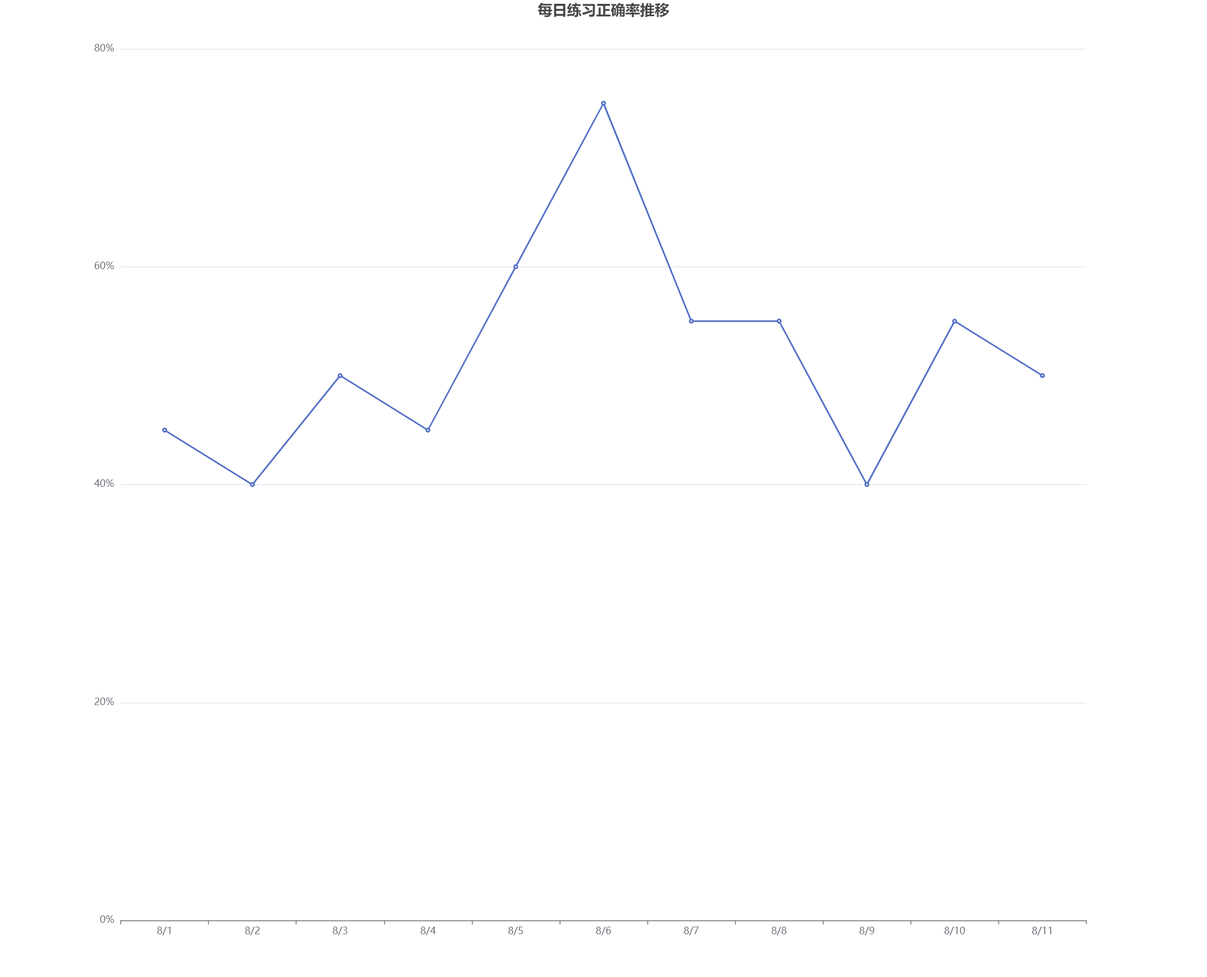
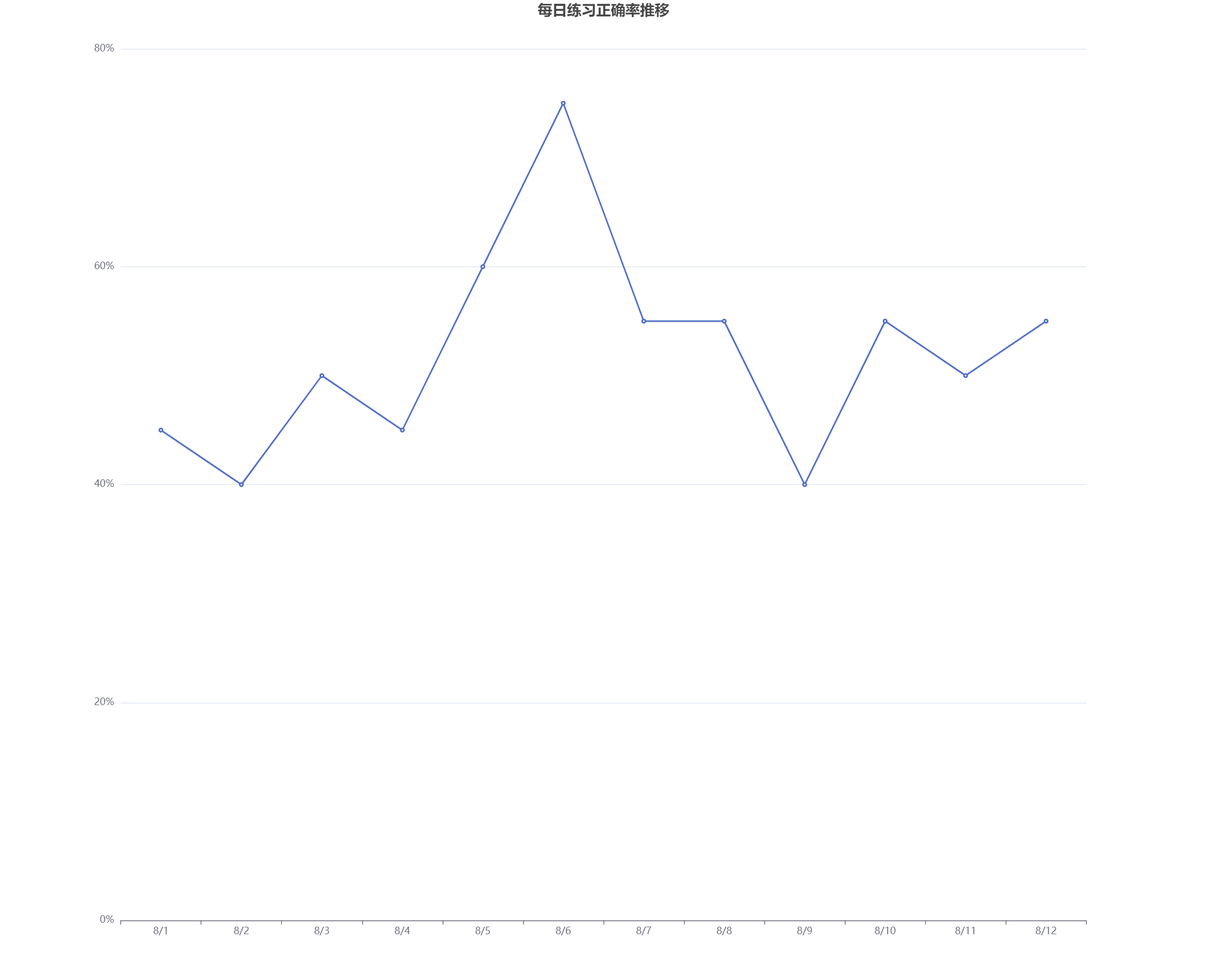
[update] answer question 301-320

diff --git a/src/dailyPractice.js b/src/dailyPractice.js
@@ -5,7 +5,7 @@ option = {
   },
   xAxis: {
     type: "category",
-    data: ["8/1", "8/2", "8/3", "8/4", "8/5", "8/6", "8/7", "8/8", "8/9", "8/10", "8/11"],
+    data: ["8/1", "8/2", "8/3", "8/4", "8/5", "8/6", "8/7", "8/8", "8/9", "8/10", "8/11", "8/12"],
   },
   yAxis: {
     type: "value",
@@ -15,7 +15,7 @@ option = {
   },
   series: [
     {
-      data: [45, 40, 50, 45, 60, 75, 55, 55, 40, 55, 50],
+      data: [45, 40, 50, 45, 60, 75, 55, 55, 40, 55, 50, 55],
       type: "line",
     },
   ],

diff --git a/第四章/README.md b/第四章/README.md
@@ -1,1 +1,275 @@
 # AWS SAP 301-400
+
+1. A company built an ecommerce website on AWS using a three-tier web architecture. The application is Java-based and composed of an Amazon CloudFront distribution, an Apache web server layer of Amazon EC2 instances in an Auto Scaling group, and a backend Amazon Aurora MySQL database. Last month, during a promotional sales event, users reported errors and timeouts while adding items to their shopping carts. The operations team recovered the logs created by the web servers and reviewed Aurora DB cluster performance metrics. Some of the web servers were terminated before logs could be collected and the Aurora metrics were not sufficient for query performance analysis. Which combination of steps must the solutions architect take to improve application performance visibility during peak traffic events? (Choose three.)
+   - [ ] A. Configure the Aurora MySQL DB cluster to publish slow query and error logs to Amazon CloudWatch Logs.
+   - [ ] B. Implement the AWS X-Ray SDK to trace incoming HTTP requests on the EC2 instances and implement tracing of SQL queries with the X-Ray SDK for Java.
+   - [ ] C. Configure the Aurora MySQL DB cluster to stream slow query and error logs to Amazon Kinesis
+   - [ ] D. Install and configure an Amazon CloudWatch Logs agent on the EC2 instances to send the Apache logs to CloudWatch Logs.
+   - [ ] E. Enable and configure AWS CloudTrail to collect and analyze application activity from Amazon EC2 and Aurora.
+   - [ ] F. Enable Aurora MySQL DB cluster performance benchmarking and publish the stream to AWS X-Ray.
+
+   <details>
+      <summary>Answer</summary>
+
+      答案ABD -> [ref](https://docs.aws.amazon.com/zh_cn/xray/latest/devguide/xray-sdk-java-sqlclients.html)
+
+   </details>
+
+2. A North American company with headquarters on the East Coast is deploying a new web application running on Amazon EC2 in the us-east-1 Region. The application should dynamically scale to meet user demand and maintain resiliency. Additionally, the application must have disaster recover capabilities in an active-passive configuration with the us-west-1 Region. Which steps should a solutions architect take after creating a VPC in the us-east-1 Region?
+   - [ ] A. Create a VPC in the us-west-1 Region. Use inter-Region VPC peering to connect both VPCs. Deploy an Application Load Balancer (ALB) spanning multiple Availability Zones (AZs) to the VPC in the us-east-1 Region. Deploy EC2 instances across multiple AZs in each Region as part of an Auto Scaling group spanning both VPCs and served by the ALB.
+   - [ ] B. Deploy an Application Load Balancer (ALB) spanning multiple Availability Zones (AZs) to the VPC in the us-east-1 Region. Deploy EC2 instances across multiple AZs as part of an Auto Scaling group served by the ALB. Deploy the same solution to the us-west-1 Region. Create an Amazon Route 53 record set with a failover routing policy and health checks enabled to provide high availability across both Regions.
+   - [ ] C. Create a VPC in the us-west-1 Region. Use inter-Region VPC peering to connect both VPCs. Deploy an Application Load Balancer (ALB) that spans both VPCs. Deploy EC2 instances across multiple Availability Zones as part of an Auto Scaling group in each VPC served by the ALB. Create an Amazon Route 53 record that points to the ALB.
+   - [ ] D. Deploy an Application Load Balancer (ALB) spanning multiple Availability Zones (AZs) to the VPC in the us-east-1 Region. Deploy EC2 instances across multiple AZs as part of an Auto Scaling group served by the ALB. Deploy the same solution to the us-west-1 Region. Create separate Amazon Route 53 records in each Region that point to the ALB in the Region. Use Route 53 health checks to provide high availability across both Regions.
+
+   <details>
+      <summary>Answer</summary>
+
+      D没有提到要在Amazon Route 53上使用的路由策略。问题要求第二个区域作为被动备份，这意味着只有主区域接收所有流量，所以你需要在Amazon Route 53中特别使用故障转移路由策略。所以根据要求，B是正确的
+
+   </details>
+
+3. A company has a web application that uses Amazon API Gateway, AWS Lambda, and Amazon DynamoDB. A recent marketing campaign has increased demand. Monitoring software reports that many requests have significantly longer response times than before the marketing campaign. A solutions architect enabled Amazon CloudWatch Logs for API Gateway and noticed that errors are occurring on 20% of the requests. In CloudWatch, the Lambda function Throttles metric represents 1% of the requests and the Errors metric represents 10% of the requests. Application logs indicate that, when errors occur, there is a call to DynamoDB. What change should the solutions architect make to improve the current response times as the web application becomes more popular?
+   - [ ] A. Increase the concurrency limit of the Lambda function.
+   - [ ] B. Implement DynamoDB auto scaling on the table.
+   - [ ] C. Increase the API Gateway throttle limit.
+   - [ ] D. Re-create the DynamoDB table with a better-partitioned primary index.
+
+   <details>
+      <summary>Answer</summary>
+
+      这里DynamoDB发生了错误，答案B
+
+   </details>
+
+4. A European online newspaper service hosts its public-facing WordPress site in a collocated data center in London. The current WordPress infrastructure consists of a load balancer, two web servers, and one MySQL database server. A solutions architect is tasked with designing a solution with the following requirements: -Improve the website's performance. -Make the web tier scalable and stateless. -Improve the database server performance for read-heavy loads. -Reduce latency for users across Europe and the US. -Design the new architecture with a goal of 99.9% availability. Which solution meets these requirements while optimizing operational efficiency?
+   - [ ] A. Use an Application Load Balancer (ALB) in front of an Auto Scaling group of WordPress Amazon EC2 instances in one AWS Region and three Availability Zones. Configure an Amazon ElastiCache cluster in front of a Multi-AZ Amazon Aurora MySQL DB cluster. Move the WordPress shared files to Amazon EFS. Configure Amazon CloudFront with the ALB as the origin, and select a price class that includes the US and Europe.
+   - [ ] B. Use an Application Load Balancer (ALB) in front of an Auto Scaling group of WordPress Amazon EC2 instances in two AWS Regions and two Availability Zones in each Region. Configure an Amazon ElastiCache cluster in front of a global Amazon Aurora MySQL database. Move the WordPress shared files to Amazon EFS. Configure Amazon CloudFront with the ALB as the origin, and select a price class that includes the US and Europe. Configure EFS cross- Region replication.
+   - [ ] C. Use an Application Load Balancer (ALB) in front of an Auto Scaling group of WordPress Amazon EC2 instances in one AWS Region and three Availability Zones. Configure an Amazon DocumentDB table in front of a Multi-AZ Amazon Aurora MySQL DB cluster. Move the WordPress shared files to Amazon EFS. Configure Amazon CloudFront with the ALB as the origin, and select a price class that includes all global locations.
+   - [ ] D. Use an Application Load Balancer (ALB) in front of an Auto Scaling group of WordPress Amazon EC2 instances in two AWS Regions and three Availability Zones in each Region. Configure an Amazon ElastiCache cluster in front of a global Amazon Aurora MySQL database. Move the WordPress shared files to Amazon FSx with cross-Region synchronization. Configure Amazon CloudFront with the ALB as the origin and a price class that includes the US and Europe.
+
+   <details>
+      <summary>Answer</summary>
+
+      简单题，答案A
+
+   </details>
+
+5. A solutions architect has implemented a SAML 2.0 federated identity solution with their companyג€™s on-premises identity provider (IdP) to authenticate usersג€™ access to the AWS environment. When the solutions architect tests authentication through the federated identity web portal, access to the AWS environment is granted. However, when test users attempt to authenticate through the federated identity web portal, they are not able to access the AWS environment. Which items should the solutions architect check to ensure identity federation is properly configured? (Choose three).
+   - [ ] A. The IAM user's permissions policy has allowed the use of SAML federation for that user.
+   - [ ] B. The IAM roles created for the federated users' or federated groups' trust policy have set the SAML provider as the principal.
+   - [ ] C. Test users are not in the AWSFederatedUsers group in the company's IdR.
+   - [ ] D. The web portal calls the AWS STS AssumeRoleWithSAML API with the ARN of the SAML provider, the ARN of the IAM role, and the SAML assertion from IdR.
+   - [ ] E. The on-premises IdP's DNS hostname is reachable from the AWS environment VPCs.
+   - [ ] F. The company's IdP defines SAML assertions that properly map users or groups in the company to IAM roles with appropriate permissions.
+
+   <details>
+      <summary>Answer</summary>
+
+      答案BDF
+
+   </details>
+
+6. A company wants to improve cost awareness for its Amazon EMR platform. The company has allocated budgets for each team's Amazon EMR usage. When a budgetary threshold is reached, a notification should be sent by email to the budget office's distribution list. Teams should be able to view their EMR cluster expenses to date. A solutions architect needs to create a solution that ensures the policy is proactively and centrally enforced in a multi-account environment. Which combination of steps should the solutions architect take to meet these requirements? (Choose two)
+   - [ ] A. Update the AWS CloudFormation template to include the AWS::Budgets::Budget::resource with the NotificationsWithSubscribers property.
+   - [ ] B. Implement Amazon CloudWatch dashboards for Amazon EMR usage.
+   - [ ] C. Create an EMR bootstrap action that runs at startup that calls the Cost Explorer API to set the budget on the cluster with the GetCostForecast and NotificationsWithSubscribers actions.
+   - [ ] D. Create an AWS Service Catalog portfolio for each team. Add each team's Amazon EMR cluster as an AWS CloudFormation template to their Service Catalog portfolio as a Product.
+   - [ ] E. Create an Amazon CloudWatch metric for billing. Create a custom alert when costs exceed the budgetary threshold.
+
+   <details>
+      <summary>Answer</summary>
+
+      答案AD -> [ref](https://docs.aws.amazon.com/zh_cn/AWSCloudFormation/latest/UserGuide/aws-resource-budgets-budget.html)
+
+   </details>
+
+7. A company is developing a gene reporting device that will collect genomic information to assist researchers will collecting large samples of data from a diverse population. The device will push 8 KB of genomic data every second to a data platform that will need to process and analyze the data and provide information back to researchers. The data platform must meet the following requirements: -Provide near-real-time analytics of the inbound genomic data. -Ensure the data is flexible, parallel, and durable. -Deliver results of processing to a data warehouse. Which strategy should a solutions architect use to meet these requirements?
+   - [ ] A. Use Amazon Kinesis Data Firehouse to collect the inbound sensor data, analyze the data with Kinesis clients, and save the results to an Amazon RDS instance.
+   - [ ] B. Use Amazon Kinesis Data Streams to collect the inbound sensor data, analyze the data with Kinesis clients, and save the results to an Amazon Redshift cluster using Amazon EMR.
+   - [ ] C. Use Amazon S3 to collect the inbound device data, analyze the data from Amazon SQS with Kinesis, and save the results to an Amazon Redshift cluster.
+   - [ ] D. Use an Amazon API Gateway to put requests into an Amazon SQS queue, analyze the data with an AWS Lambda function, and save the results to an Amazon Redshift cluster using Amazon EMR.
+
+   <details>
+      <summary>Answer</summary>
+
+      简单题，答案B
+
+   </details>
+
+8. A company is using AWS CodePipeline for the CI/CD of an application to an Amazon EC2 Auto Scaling group. All AWS resources are defined in AWS CloudFormation templates. The application artifacts are stored in an Amazon S3 bucket and deployed to the Auto Scaling group using instance user data scripts. As the application has become more complex, recent resource changes in the CloudFormation templates have caused unplanned downtime. How should a solutions architect improve the CI/CD pipeline to reduce the likelihood that changes in the templates will cause downtime?
+   - [ ] A. Adapt the deployment scripts to detect and report CloudFormation error conditions when performing deployments. Write test plans for a testing team to execute in a non-production environment before approving the change for production.
+   - [ ] B. Implement automated testing using AWS CodeBuild in a test environment. Use CloudFormation change sets to evaluate changes before deployment. Use AWS CodeDeploy to leverage blue/green deployment patterns to allow evaluations and the ability to revert changes, if needed.
+   - [ ] C. Use plugins for the integrated development environment (IDE) to check the templates for errors, and use the AWS CLI to validate that the templates are correct. Adapt the deployment code to check for error conditions and generate notifications on errors. Deploy to a test environment and execute a manual test plan before approving the change for production.
+   - [ ] D. Use AWS CodeDeploy and a blue/green deployment pattern with CloudFormation to replace the user data deployment scripts. Have the operators log in to running instances and go through a manual test plan to verify the application is running as expected.
+
+   <details>
+      <summary>Answer</summary>
+
+      简单题，答案B
+
+   </details>
+
+9. A web application is hosted in a dedicated VPC that is connected to a companyג€™s on-premises data center over a Site-to-Site VPN connection. The application is accessible from the company network only. This is a temporary non-production application that is used during business hours. The workload is generally low with occasional surges. The application has an Amazon Aurora MySQL provisioned database cluster on the backend. The VPC has an internet gateway and a NAT gateways attached. The web servers are in private subnets in an Auto Scaling group behind an Elastic Load Balancer. The web servers also upload data to an Amazon S3 bucket through the internet. A solutions architect needs to reduce operational costs and simplify the architecture. Which strategy should the solutions architect use?
+   - [ ] A. Review the Auto Scaling group settings and ensure the scheduled actions are specified to operate the Amazon EC2 instances during business hours only. Use 3-year scheduled Reserved Instances for the web server EC2 instances. Detach the internet gateway and remove the NAT gateways from the VPC. Use an Aurora Serverless database and set up a VPC endpoint for the S3 bucket.
+   - [ ] B. Review the Auto Scaling group settings and ensure the scheduled actions are specified to operate the Amazon EC2 instances during business hours only. Detach the internet gateway and remove the NAT gateways from the VPC. Use an Aurora Serverless database and set up a VPC endpoint for the S3 bucket, then update the network routing and security rules and policies related to the changes.
+   - [ ] C. Review the Auto Scaling group settings and ensure the scheduled actions are specified to operate the Amazon EC2 instances during business hours only. Detach the internet gateway from the VPC, and use an Aurora Serverless database. Set up a VPC endpoint for the S3 bucket, then update the network routing and security rules and policies related to the changes.
+   - [ ] D. Use 3-year scheduled Reserved Instances for the web server Amazon EC2 instances. Remove the NAT gateways from the VPC, and set up a VPC endpoint for the S3 bucket. Use Amazon CloudWatch and AWS Lambda to stop and start the Aurora DB cluster so it operates during business hours only. Update the network routing and security rules and policies related to the changes.
+
+   <details>
+      <summary>Answer</summary>
+
+      简单题，答案B
+
+   </details>
+
+10. A company has built a high performance computing (HPC) cluster in AWS for a tightly coupled workload that generates a large number of shared files stored in Amazon EFS. The cluster was performing well when the number of Amazon EC2 instances in the cluster was 100. However, when the company increased the cluster size to 1,000 EC2 instances, overall performance was well below expectations. Which collection of design choices should a solutions architect make to achieve the maximum performance from the HPC cluster? (Choose three.)
+    - [ ] A. Ensure the HPC cluster is launched within a single Availability Zone.
+    - [ ] B. Launch the EC2 instances and attach elastic network interfaces in multiples of four.
+    - [ ] C. Select EC2 instance types with an Elastic Fabric Adapter (EFA) enabled.
+    - [ ] D. Ensure the clusters is launched across multiple Availability Zones
+    - [ ] E. Replace Amazon EFS win multiple Amazon EBS volumes in a RAID array.
+    - [ ] F. Replace Amazon EFS with Amazon FSx for Lustre.
+
+    <details>
+       <summary>Answer</summary>
+
+       - [x] A. 高性能计算（HPC）工作负载集群应该在一个AZ中。
+       - [x] C. 弹性结构适配器（EFA）是一个网络设备，你可以附加到你的亚马逊EC2实例，以加速高性能计算（HPC）。
+       - [x] F. Amazon FSx for Lustre - 将其用于速度重要的工作负载，如机器学习、高性能计算（HPC）、视频处理和金融建模。
+
+    </details>
+
+11. A company built an application based on AWS Lambda deployed in an AWS CloudFormation stack. The last production release of the web application introduced an issue that resulted in an outage lasting several minutes. A solutions architect must adjust the deployment process to support a canary release. Which solution will meet these requirements?
+    - [ ] A. Create an alias for every new deployed version of the Lambda function. Use the AWS CLI update-alias command with the routing-config parameter to distribute the load.
+    - [ ] B. Deploy the application into a new CloudFormation stack. Use an Amazon Route 53 weighted routing policy to distribute the load.
+    - [ ] C. Create a version for every new deployed Lambda function. Use the AWS CLI update-function-configuration command with the routing-config parameter to distribute the load.
+    - [ ] D. Configure AWS CodeDeploy and use CodeDeployDefault.OneAtATime in the Deployment configuration to distribute the load.
+
+    <details>
+       <summary>Answer</summary>
+
+       答案A -> [ref](https://aws.amazon.com/cn/blogs/compute/implementing-canary-deployments-of-aws-lambda-functions-with-alias-traffic-shifting/)
+
+    </details>
+
+12. A company runs a popular public-facing ecommerce website. Its user base is growing quickly from a local market to a national market. The website is hosted in an on-premises data center with web servers and a MySQL database. The company wants to migrate its workload to AWS. A solutions architect needs to create a solution to: -Improve security. -Improve reliability. -Improve availability. -Reduce latency. -Reduce maintenance. Which combination of steps should the solutions architect take to meet these requirements? (Choose three)
+    - [ ] A. Use Amazon EC2 instances in two Availability Zones for the web servers in an Auto Scaling group behind an Application Load Balancer.
+    - [ ] B. Migrate the database to a Multi-AZ Amazon Aurora MySQL DB cluster.
+    - [ ] C. Use Amazon EC2 instances in two Availability Zones to host a highly available MySQL database cluster.
+    - [ ] D. Host static website content in Amazon S3. Use S3 Transfer Acceleration to reduce latency while serving webpages. Use AWS WAF to improve website security.
+    - [ ] E. Host static website content in Amazon S3. Use Amazon CloudFront to reduce latency while serving webpages. Use AWS WAF to improve website security.
+    - [ ] F. Migrate the database to a single-AZ Amazon RDS for MySQL DB instance.
+
+    <details>
+       <summary>Answer</summary>
+
+       简单题，答案ABE
+
+    </details>
+
+13. A company provides auction services for artwork and has users across North America and Europe. The company hosts its application in Amazon EC2 instances in the us-east-1 Region. Artists upload photos of their work as large-size, high-resolution image files from their mobile phones to a centralized Amazon S3 bucket created in the us-east-1 Region. The users in Europe are reporting slow performance for their image uploads. How can a solutions architect improve the performance of the image upload process?
+    - [ ] A. Redeploy the application to use S3 multipart uploads.
+    - [ ] B. Create an Amazon CloudFront distribution and point to the application as a custom origin.
+    - [ ] C. Configure the buckets to use S3 Transfer Acceleration.
+    - [ ] D. Create an Auto Scaling group for the EC2 instances and create a scaling policy.
+
+    <details>
+       <summary>Answer</summary>
+
+       简单题，答案C
+
+    </details>
+
+14. A company has developed a new release of a popular video game and wants to make it available for public download. The new release package is approximately 5GB in size. The company provides downloads for existing releases from a Linux-based, publicly facing FTP site hosted in an on-premises data center. The company expects the new release will be downloaded by users worldwide. The company wants a solution that provides improved download performance and low transfer costs, regardless of a user's location. Which solutions will meet these requirements?
+    - [ ] A. Store the game files on Amazon EBS volumes mounted on Amazon EC2 instances within an Auto Scaling group. Configure an FTP service on the EC2 instances. Use an Application Load Balancer in front of the Auto Scaling group. Publish the game download URL for users to download the package.
+    - [ ] B. Store the game files on Amazon EFS volumes that are attached to Amazon EC2 instances within an Auto Scaling group. Configure an FTP service on each of the EC2 instances. Use an Application Load Balancer in front of the Auto Scaling group. Publish the game download URL for users to download the package.
+    - [ ] C. Configure Amazon Route 53 and an Amazon S3 bucket for website hosting. Upload the game files to the S3 bucket. Use Amazon CloudFront for the website. Publish the game download URL for users to download the package.
+    - [ ] D. Configure Amazon Route 53 and an Amazon S3 bucket for website hosting. Upload the game files to the S3 bucket. Set Requester Pays for the S3 bucket. Publish the game download URL for users to download the package.
+
+    <details>
+       <summary>Answer</summary>
+
+       简单题，答案C
+
+    </details>
+
+15. A new startup is running a serverless application using AWS Lambda as the primary source of compute. New versions of the application must be made available to a subset of users before deploying changes to all users. Developers should also have the ability to abort the deployment and have access to an easy rollback mechanism. A solutions architect decides to use AWS CodeDeploy changes when a new version is available. Which CodeDeploy configuration should the solutions architect use?
+    - [ ] A. A blue/green deployment
+    - [ ] B. A linear deployment
+    - [ ] C. A canary deployment
+    - [ ] D. An all-at-once deployment
+
+    <details>
+       <summary>Answer</summary>
+
+       向一部分用户提供该应用程序的新版本，金丝雀部署
+
+    </details>
+
+16. A company has developed a custom tool used in its workflow that runs within a Docker container. The company must perform manual steps each time the container code is updated to make the container image available to new workflow executions. The company wants to automate this process to eliminate manual effort and ensure a new container image is generated every time the tool code is updated. Which combination of actions should a solutions architect take to meet these requirements? (Choose three.)
+    - [ ] A. Configure an Amazon ECR repository for the tool. Configure an AWS CodeCommit repository containing code for the tool being deployed to the container image in Amazon ECR.
+    - [ ] B. Configure an AWS CodeDeploy application that triggers an application version update that pulls the latest tool container image from Amazon ECR, updates the container with code from the source AWS CodeCommit repository, and pushes the updated container image to Amazon ECR.
+    - [ ] C. Configuration an AWS CodeBuild project that pulls the latest tool container image from Amazon ECR, updates the container with code from the source AWS CodeCommit repository, and pushes the updated container image to Amazon ECR.
+    - [ ] D. Configure an AWS CodePipeline pipeline that sources the tool code from the AWS CodeCommit repository and initiates an AWS CodeDeploy application update.
+    - [ ] E. Configure an Amazon EventBridge rule that triggers on commits to the AWS CodeCommit repository for the tool. Configure the event to trigger an update to the tool container image in Amazon ECR. Push the updated container image to Amazon ECR.
+    - [ ] F. Configure an AWS CodePipeline pipeline that sources the tool code from the AWS CodeCommit repository and initiates an AWS CodeBuild build.
+
+    <details>
+       <summary>Answer</summary>
+
+       概念题，答案ACF
+
+    </details>
+
+17. A company needs to create a centralized logging architecture for all of its AWS accounts. The architecture should provide near-real-time data analysis for all AWS CloudTrail logs and VPC Flow Logs across all AWS accounts. The company plans to use Amazon Elasticsearch Service (Amazon ES) to perform log analysis in the logging account. Which strategy a solutions architect use to meet these requirements?
+    - [ ] A. Configure CloudTrail and VPC Flow Logs in each AWS account to send data to a centralized Amazon S3 bucket in the logging account. Create and AWS Lambda function to load data from the S3 bucket to Amazon ES in the logging account.
+    - [ ] B. Configure CloudTrail and VPC Flow Logs to send data to a log group in Amazon CloudWatch account. Configure a CloudWatch subscription filter in each AWS account to send data to Amazon Kinesis Data Firehouse in the logging account. Load data from Kinesis Data Firehouse into Amazon ES in the logging account.
+    - [ ] C. Configure CloudTrail and VPC Flow Logs to send data to a separate Amazon S3 bucket in each AWS account. Create an AWS Lambda function triggered by S3 events to copy the data to a centralized logging bucket. Create another Lambda function to load data from the S3 bucket to Amazon ES in the logging account.
+    - [ ] D. Configure CloudTrail and VPC Flow Logs to send data to a log group in Amazon CloudWatch Logs in each AWS account. Create AWS Lambda functions in each AWS accounts to subscribe to the log groups and stream the data to an Amazon S3 bucket in the logging account. Create another Lambda function to load data from the S3 bucket to Amazon ES in the logging account.
+
+    <details>
+       <summary>Answer</summary>
+
+       答案B -> [ref](https://aws.amazon.com/cn/solutions/implementations/centralized-logging/)
+
+    </details>
+
+18. A company standardized its method of deploying applications to AWS using AWS CodePipeline and AWS Cloud Formation. The applications are in TypeScript and Python. The company has recently acquired another business that deploys applications to AWS using Python scripts. Developers from the newly acquired company are hesitant to move their applications under Cloud Formation because it would require that they learn a new domain-specific language and eliminate their access to language features, such as looping. How can the acquired applications quickly be brought up to deployment standards while addressing the developers' concerns?
+    - [ ] A. Create CloudFormation templates and re-use parts of the Python scripts as Instance user data. Use the AWS Cloud Development Kit (AWS CDK) to deploy the application using these templates. Incorporate the AWS CDK into CodePipeline and deploy the application to AWS using these templates.
+    - [ ] B. Use a third-party resource provisioning engine inside AWS CodeBuild to standardize the deployment processes of the existing and acquired company. Orchestrate the CodeBuild job using CodePipeline.
+    - [ ] C. Standardize on AWS OpsWorks. Integrate OpsWorks with CodePipeline. Have the developers create Chef recipes to deploy their applications on AWS.
+    - [ ] D. Define the AWS resources using TypeScript or Python. Use the AWS Cloud Development Kit (AWS CDK) to create CloudFormation templates from the developers' code, and use the AWS CDK to create CloudFormation stacks. Incorporate the AWS CDK as a CodeBuild job in CodePipeline.
+
+    <details>
+       <summary>Answer</summary>
+
+       使用CDK可以用Python或者TS脚本生成CloudFormation，答案D -> [ref](https://docs.aws.amazon.com/zh_cn/cdk/latest/guide/cdk_pipeline.html)
+
+    </details>
+
+19. A healthcare company runs a production workload on AWS that stores highly sensitive personal information. The security team mandates that, for auditing purposes, any AWS API action using AWS account root user credentials must automatically create a high-priority ticket in the companyג€™s ticketing system. The ticketing system has a monthly 3-hour maintenance window when no tickets can be created. To meet security requirements, the company enabled AWS CloudTrail logs and wrote a scheduled AWS Lambda function that uses Amazon Athena to query API actions performed by the root user. The Lambda function submits any actions found to the ticketing system API. During a recent security audit, the security team discovered that several tickets were not created because the ticketing system was unavailable due to planned maintenance. Which combination of steps should a solutions architect take to ensure that the incidents are reported to the ticketing system even during planned maintenance? (Choose two.)
+    - [ ] A. Create an Amazon SNS topic to which Amazon CloudWatch alarms will be published. Configure a CloudWatch alarm to invoke the Lambda function.
+    - [ ] B. Create an Amazon SQS queue to which Amazon CloudWatch alarms will be published. Configure a CloudWatch alarm to publish to the SQS queue.
+    - [ ] C. Modify the Lambda function to be triggered by messages published to an Amazon SNS topic. Update the existing application code to retry every 5 minutes if the ticketing system's API endpoint is unavailable.
+    - [ ] D. Modify the Lambda function to be triggered when there are messages in the Amazon SQS queue and to return successfully when the ticketing system API has processed the request.
+    - [ ] E. Create an Amazon EventBridge rule that triggers on all API events where the invoking user identity is root. Configure the EventBridge rule to write the event to an Amazon SQS queue.
+
+    <details>
+       <summary>Answer</summary>
+
+       简单题，答案BD
+
+    </details>
+
+20. A company is running a two-tier web-based application in an on-premises data center. The application user consists of a single server running a stateful application. The application connects to a PostgreSQL database running on a separate server. The application’s user base is expected to grow significantly, so the company is migrating the application and database to AWS. The solution will use Amazon Aurora PostgreSQL, Amazon EC2 Auto Scaling, and Elastic Load Balancing. Which solution will provide a consistent user experience that will allow the application and database tiers to scale?
+    - [ ] A. Enable Aurora Auto Scaling for Aurora Replicas. Use a Network Load Balancer with the least outstanding requests routing algorithm and sticky sessions enabled.
+    - [ ] B. Enable Aurora Auto Scaling for Aurora writes. Use an Application Load Balancer with the round robin routing algorithm and sticky sessions enabled.
+    - [ ] C. Enable Aurora Auto Scaling for Aurora Replicas. Use an Application Load Balancer with the robin routing and sticky sessions enabled.
+    - [ ] D. Enable Aurora Scaling for Aurora writers. Use a Network Load Balancer with the least outstanding requests routing algorithm and sticky sessions enabled.
+
+    <details>
+       <summary>Answer</summary>
+
+       为副本开启ALB，启动Robin（均等路由），粘性会话，答案C
+
+    </details>
